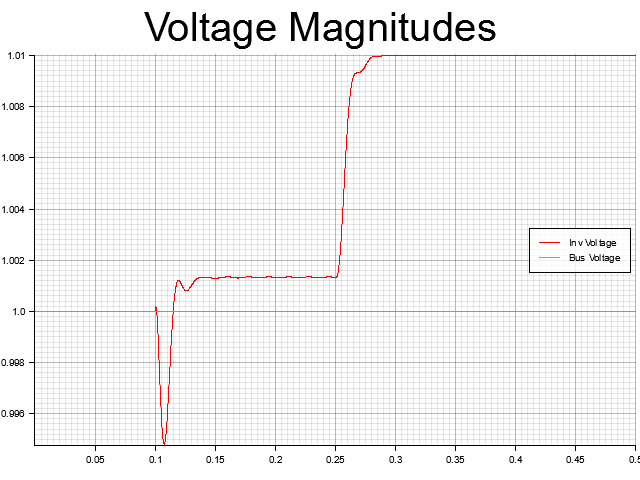
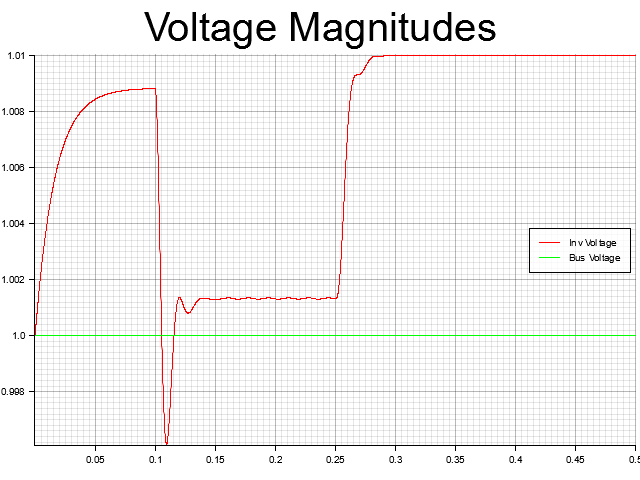
Added droop DLVC sim, changed DLVC sim current sampling, commented param
Made an equivalent DLVC sim for the droop controller as I had previously
made for the dVOC controller. I tested the DLVC with droop control and
found it to work with faster voltage loop gains. Still seeing issues
with the dVOC controller simulation. In both these simulations I changed
the current sampling to be on the grid side and the plotted power is the
power at the point of common coupling (PCC).

Added organizational comments to the params of some simulations.

Changed region(s): [[0.0, 0.125, 1.0, 0.9375]]

diff --git a/src/bin/droop_lcl_dlvc_sim.rs b/src/bin/droop_lcl_dlvc_sim.rs
@@ -11,11 +11,11 @@ use unifi_gfm::simulations::*;
 use unifi_gfm::constants::*;
 
 
-const VOLTAGE_FILE_NAME: &'static str = "images/dvoc_lcl_dlcv_sim_voltage.png";
-const THETA_FILE_NAME: &'static str = "images/dvoc_lcl_dlcv_sim_thetas.png";
-const POWER_OUT_FILE_NAME: &'static str = "images/dvoc_lcl_dlcv_sim_powers.png";
-const CURRENT_OUT_FILE_NAME: &'static str = "images/dvoc_lcl_dlcv_sim_currents.png";
-const DELTA_OUT_FILE_NAME: &'static str = "images/dvoc_lcl_dlcv_sim_deltas.png";
+const VOLTAGE_FILE_NAME: &'static str = "images/droop_lcl_dlcv_sim_voltage.png";
+const THETA_FILE_NAME: &'static str = "images/droop_lcl_dlcv_sim_thetas.png";
+const POWER_OUT_FILE_NAME: &'static str = "images/droop_lcl_dlcv_sim_powers.png";
+const CURRENT_OUT_FILE_NAME: &'static str = "images/droop_lcl_dlcv_sim_currents.png";
+const DELTA_OUT_FILE_NAME: &'static str = "images/droop_lcl_dlcv_sim_deltas.png";
 fn main() -> Result<(), Box<dyn std::error::Error>> {
     /*
     DEFINE SYSTEM PARAMETERS & CONSTRUCT OBJECTS
@@ -27,9 +27,6 @@ fn main() -> Result<(), Box<dyn std::error::Error>> {
     let s_rated: f32 = 1000.;
     let fs: f32 = 10e3_f32; // Hz
     let dt: f32 = 1. / fs;  // s
-    let xi: f32 = 15.;
-    let c: f32 = 0.2679;
-    let gamma: f32 = 1.; 
 
     let i_base = 3. * v_nom / s_rated;
     let z_base = 3. * v_nom * v_nom / s_rated;
@@ -40,6 +37,16 @@ fn main() -> Result<(), Box<dyn std::error::Error>> {
     let rc = 0.05;  // filter capacitor parasitic resistance
     let rg = 0.4;  // grid-side resistance
     let lg = 1.5e-3;  // grid-side inductance
+
+    // droop controller parameters
+    let mp: f32 = 0.0026; // / w_nom;  // TODO: Does this coefficient need to be per-unitized? Current values seems to make the response sluggish
+    let mq: f32 = 0.005; // / v_nom;   // TODO: Does this coefficient need to be per-unitized?
+    let w_c: f32 = 30.*2.*PI;  // TODO: Does this filter frequency need to be per-unitized?
+    
+    // presynchronization parameters
+    let gamma: f32 = 1.; 
+
+    // double-loop voltage controller paramerters
     //let rv = 0;  // virtual impedance
     //let zf = libm::sqrtf(rf*rf+(lf*w_nom)*(lf*w_nom));  // filter nominal inductance
 
@@ -51,11 +58,10 @@ fn main() -> Result<(), Box<dyn std::error::Error>> {
     let kp_i = 1.*lf*w_cur * (1. / z_base);
     let ki_i = 1.*rf*w_cur * (1. / z_base);  // TODO: Is this per-unitization of scalars here correct? Most concerned about w_nom scaling
 
-    let mut inv = build_dvoc_controller(v_nom, w_nom, xi, c, n_phases);
+    let mut inv = build_droop_controller(v_nom, w_nom, mp, mq, w_c, n_phases);
     let theta0 = 0.0;  // 0.003 for initializing off from grid
-    inv.x[(1)] = theta0;  // Initialize inverter angle to be off from the grid to test presync
-    inv.x[(0)] = 1.0;  // Initialize inverter voltage to be off from v_nom to test presync
-    let inv_ab = AlphaBeta::from_polar(inv.x[(0)], inv.x[(1)] * w_nom);  // Grab alpha-beta inv voltage for initializing the LCL filter
+    inv.x[(0)] = theta0;  // Initialize inverter voltage to be off from v_nom to test presync
+    let inv_ab = AlphaBeta::from_polar(1., inv.x[(0)] * w_nom);  // Grab alpha-beta inv voltage for initializing the LCL filter
     let mut gfm = add_presynch(&mut inv, gamma);  // Place the dVOC controller within a GFM interface object
     let mut voltage_loop = build_double_loop_voltage_controller(v_nom, kp_v, ki_v, kp_i, ki_i, lf / z_base, cf * z_base, i_base, -i_base);
 
@@ -85,7 +91,7 @@ fn main() -> Result<(), Box<dyn std::error::Error>> {
     let mut v_grid_sample: f32; let mut theta_grid_sample: f32;
     let mut v_grid: f32; let mut theta_grid: f32; 
     let mut v_inv: [f32; 2]; let mut v_cap: [f32; 2] = [inv_ab.alpha, inv_ab.beta]; let mut v_gfm: [f32; 2];
-    let mut dv_dt_gfm:  nalgebra::SVector<f32, 2> = nalgebra::zero();
+    let mut dv_dt_gfm:  nalgebra::SVector<f32, 3> = nalgebra::zero();
     let mut v_inv_alpha_beta: AlphaBeta<f32>; let mut v_cap_alpha_beta: AlphaBeta<f32>; 
     let mut v_grid_sample_alpha_beta: AlphaBeta<f32>; let mut v_to_alpha_beta: AlphaBeta<f32>;
     let mut i_fr: [f32; 2]; let mut i_to: [f32; 2]; let mut v_inv_dq: [f32; 2]; let mut v_inv_polar: Polar<f32>; 
@@ -104,7 +110,6 @@ fn main() -> Result<(), Box<dyn std::error::Error>> {
     let mut ia_values: Vec<(f32, f32)> = vec![(0., 0.); (n_steps+1) as usize];
     let mut ib_values: Vec<(f32, f32)> = vec![(0., 0.); (n_steps+1) as usize];
     // TEST: Using step_output for DLVC
-    let mut t_pause = 0.446;
     v_gfm = gfm.get_pu_voltage();
     v_inv_dq = voltage_loop.output([v_gfm[0] * SQRT_2, dv_dt_gfm[(1)] * w_nom, vc_dq.d, vc_dq.q, if_dq.d, if_dq.q, ig_dq.d, ig_dq.q]);
 
@@ -112,9 +117,6 @@ fn main() -> Result<(), Box<dyn std::error::Error>> {
         t = step as f32 * dt;
         if t > t_step {
             gfm.set_p_ref(1.0);
-        }
-        if t > t_pause {
-            t_pause += 0.001;
         }
 
         // Get inverter output voltage from voltage-loop and convert to polar
@@ -161,7 +163,7 @@ fn main() -> Result<(), Box<dyn std::error::Error>> {
             // Calculate power
             let v = AlphaBeta::from_ab_(line_to_bus.x[(4)], line_to_bus.x[(5)]);
             let i = AlphaBeta::from_ab_(line_to_bus.x[(6)], line_to_bus.x[(7)]);
-            (p, q) = calc_ab_power(&v, &i, n_phases);  // Calculate power at PCC
+            (p, q) = calc_ab_power(&v, &i, n_phases);
             p_values[(cont_n_steps*step + n) as usize] = (t + (n as f32)*cont_dt, p);
             q_values[(cont_n_steps*step + n) as usize] = (t + (n as f32)*cont_dt, q);
             

diff --git a/src/bin/droop_rl_sim.rs b/src/bin/droop_rl_sim.rs
@@ -27,10 +27,6 @@ fn main() -> Result<(), Box<dyn std::error::Error>> {
     let s_rated: f32 = 1000.;
     let fs: f32 = 10e3_f32; // Hz
     let dt: f32 = 1. / fs;  // s
-    let mp: f32 = 0.0026; // / w_nom;  // TODO: Does this coefficient need to be per-unitized? Current values seems to make the response sluggish
-    let mq: f32 = 0.005; // / v_nom;   // TODO: Does this coefficient need to be per-unitized?
-    let w_c: f32 = 30.*2.*PI;  // TODO: Does this filter frequency need to be per-unitized?
-    let gamma: f32 = 35.;  // TODO: Determine what value should be used for gamma. Too high causes instability, but too low causes sluggish presync
 
     let rf = 0.8;  // filter-side resistance
     let lf = 1.5e-3;  // filter-side inductance
@@ -38,6 +34,15 @@ fn main() -> Result<(), Box<dyn std::error::Error>> {
     let i_base = 3. * v_nom / s_rated;
     let z_base = 3. * v_nom * v_nom / s_rated;
 
+    // droop controller parameters
+    let mp: f32 = 0.0026; // / w_nom;  // TODO: Does this coefficient need to be per-unitized? Current values seems to make the response sluggish
+    let mq: f32 = 0.005; // / v_nom;   // TODO: Does this coefficient need to be per-unitized?
+    let w_c: f32 = 30.*2.*PI;  // TODO: Does this filter frequency need to be per-unitized?
+    
+    // presynchronization parameteres
+    let gamma: f32 = 35.;  // TODO: Determine what value should be used for gamma. Too high causes instability, but too low causes sluggish presync
+
+    // construct controllers and simulation elements
     let mut inv = build_droop_controller(v_nom, w_nom, mp, mq, w_c, n_phases);
     inv.x[(0)] = 0.005;  // Initialize inverter angle to be off from the grid to test presync
     let mut gfm = add_presynch(&mut inv, gamma);  // Place the droop controller within a GFM interface object
